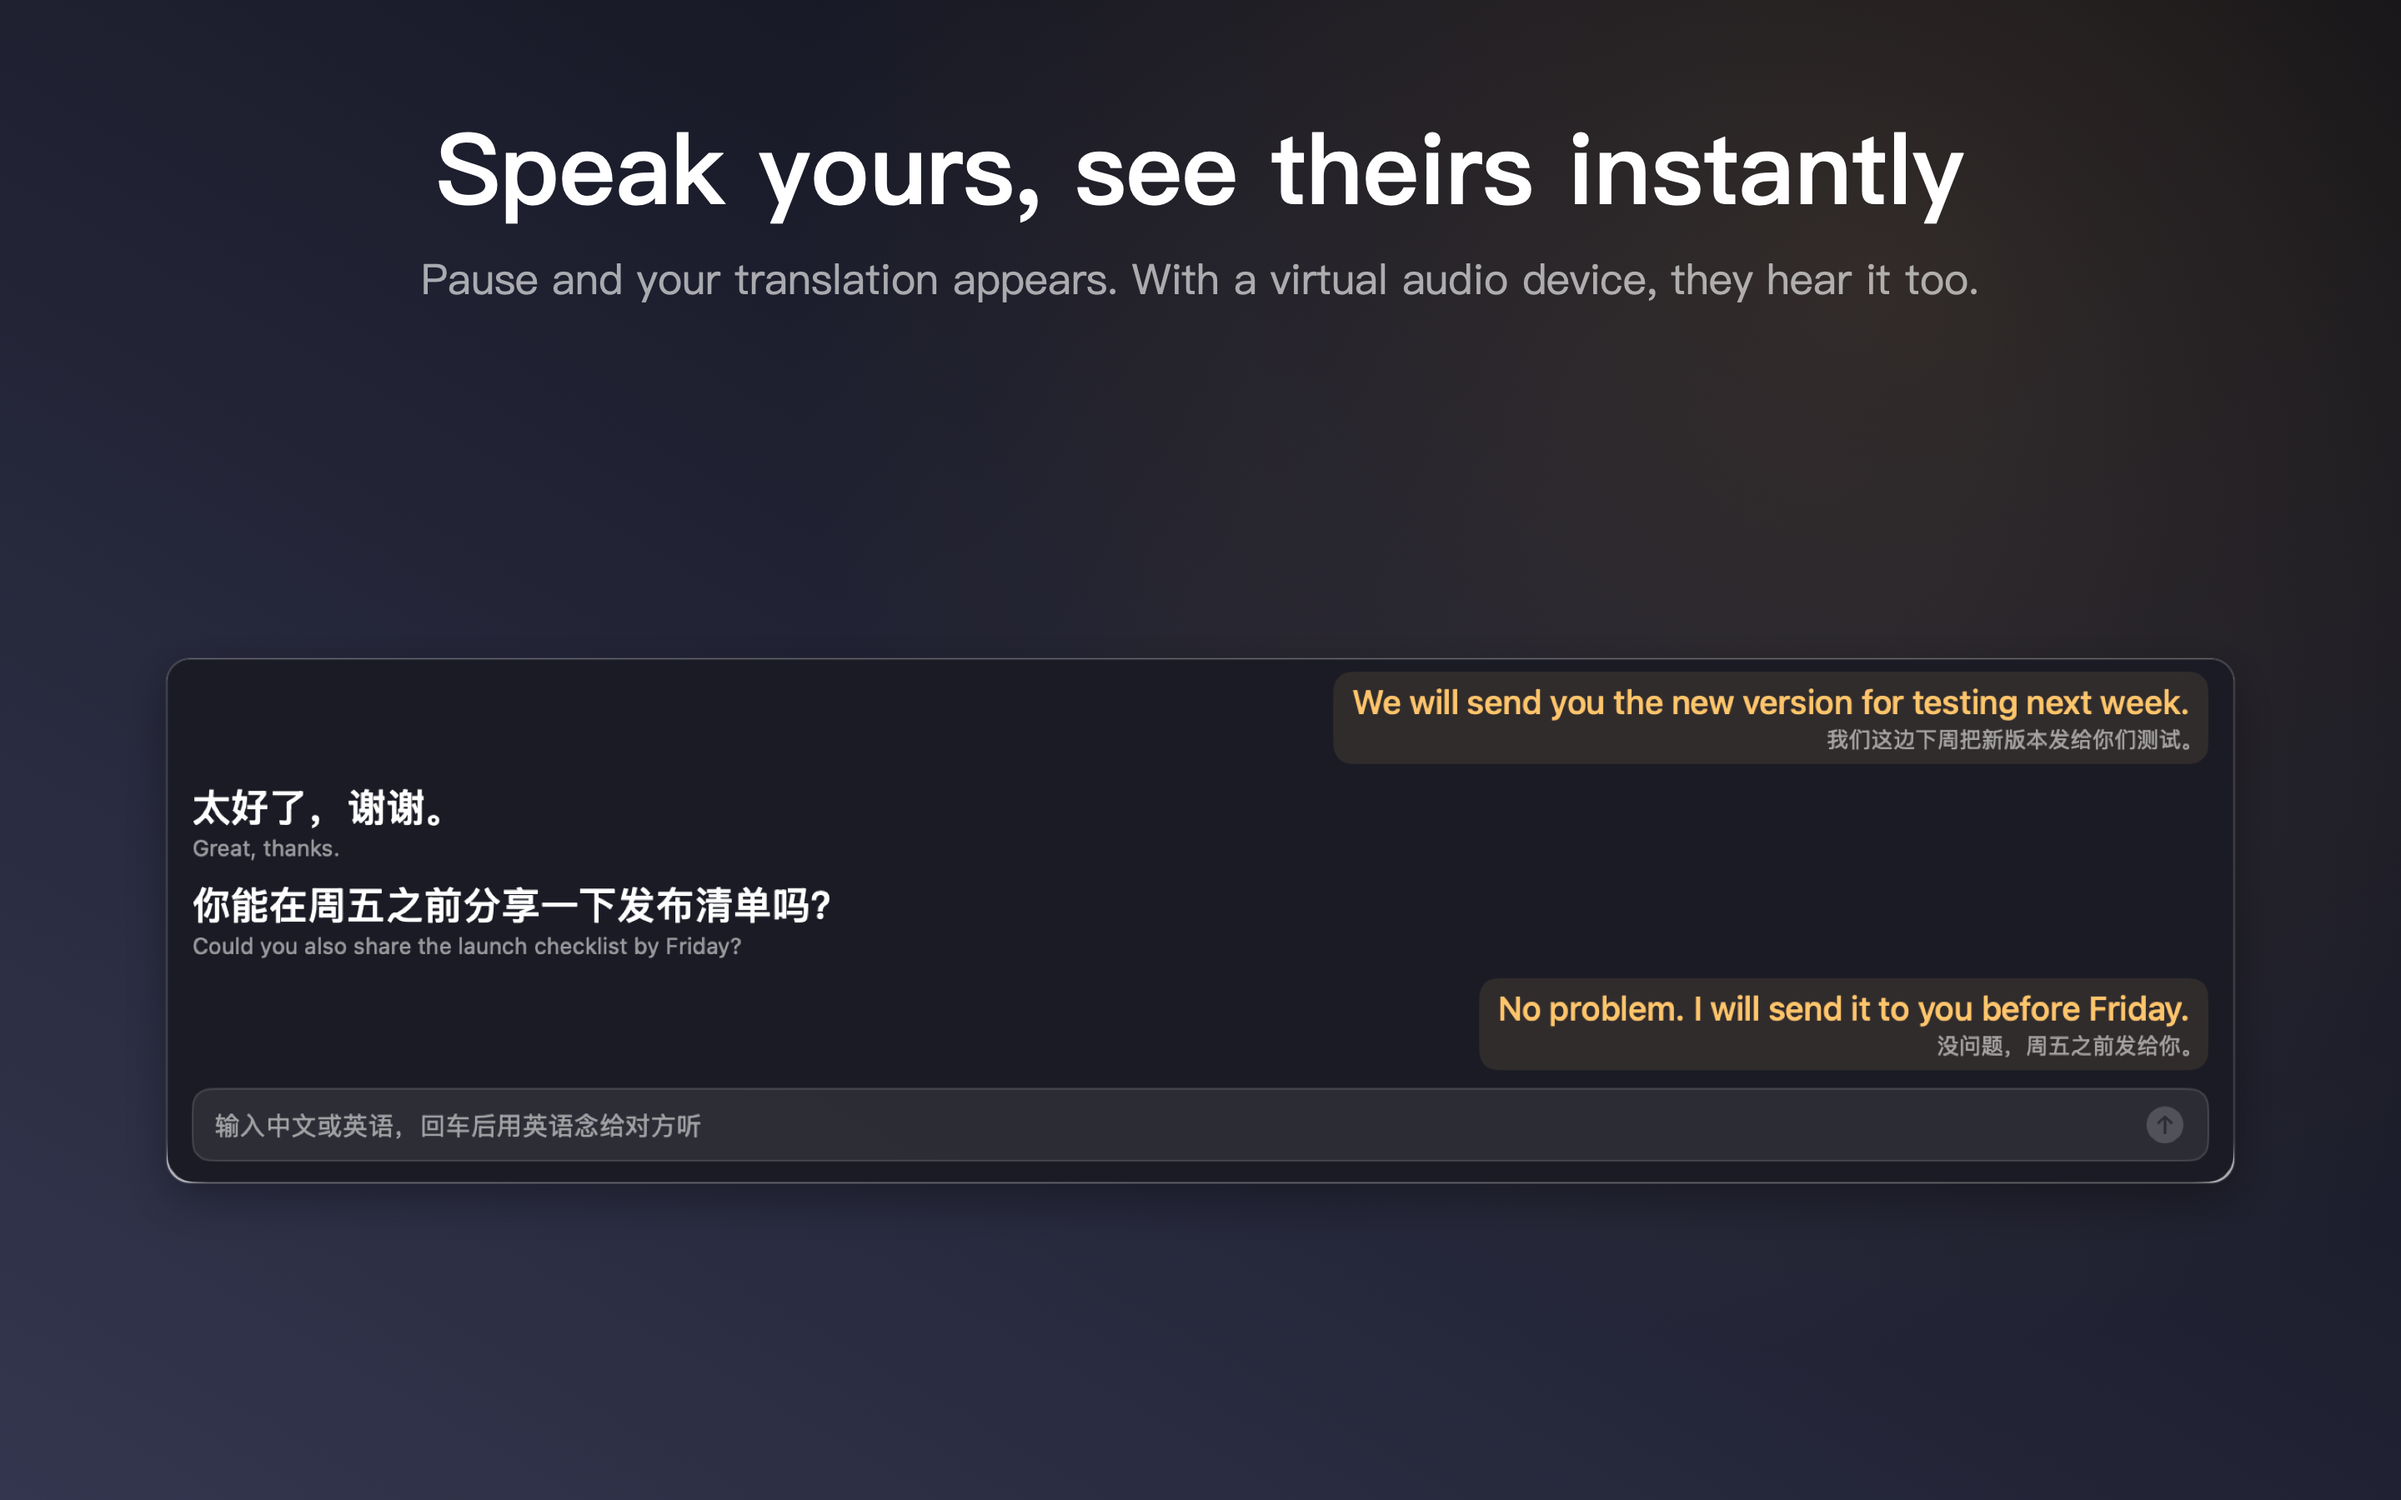
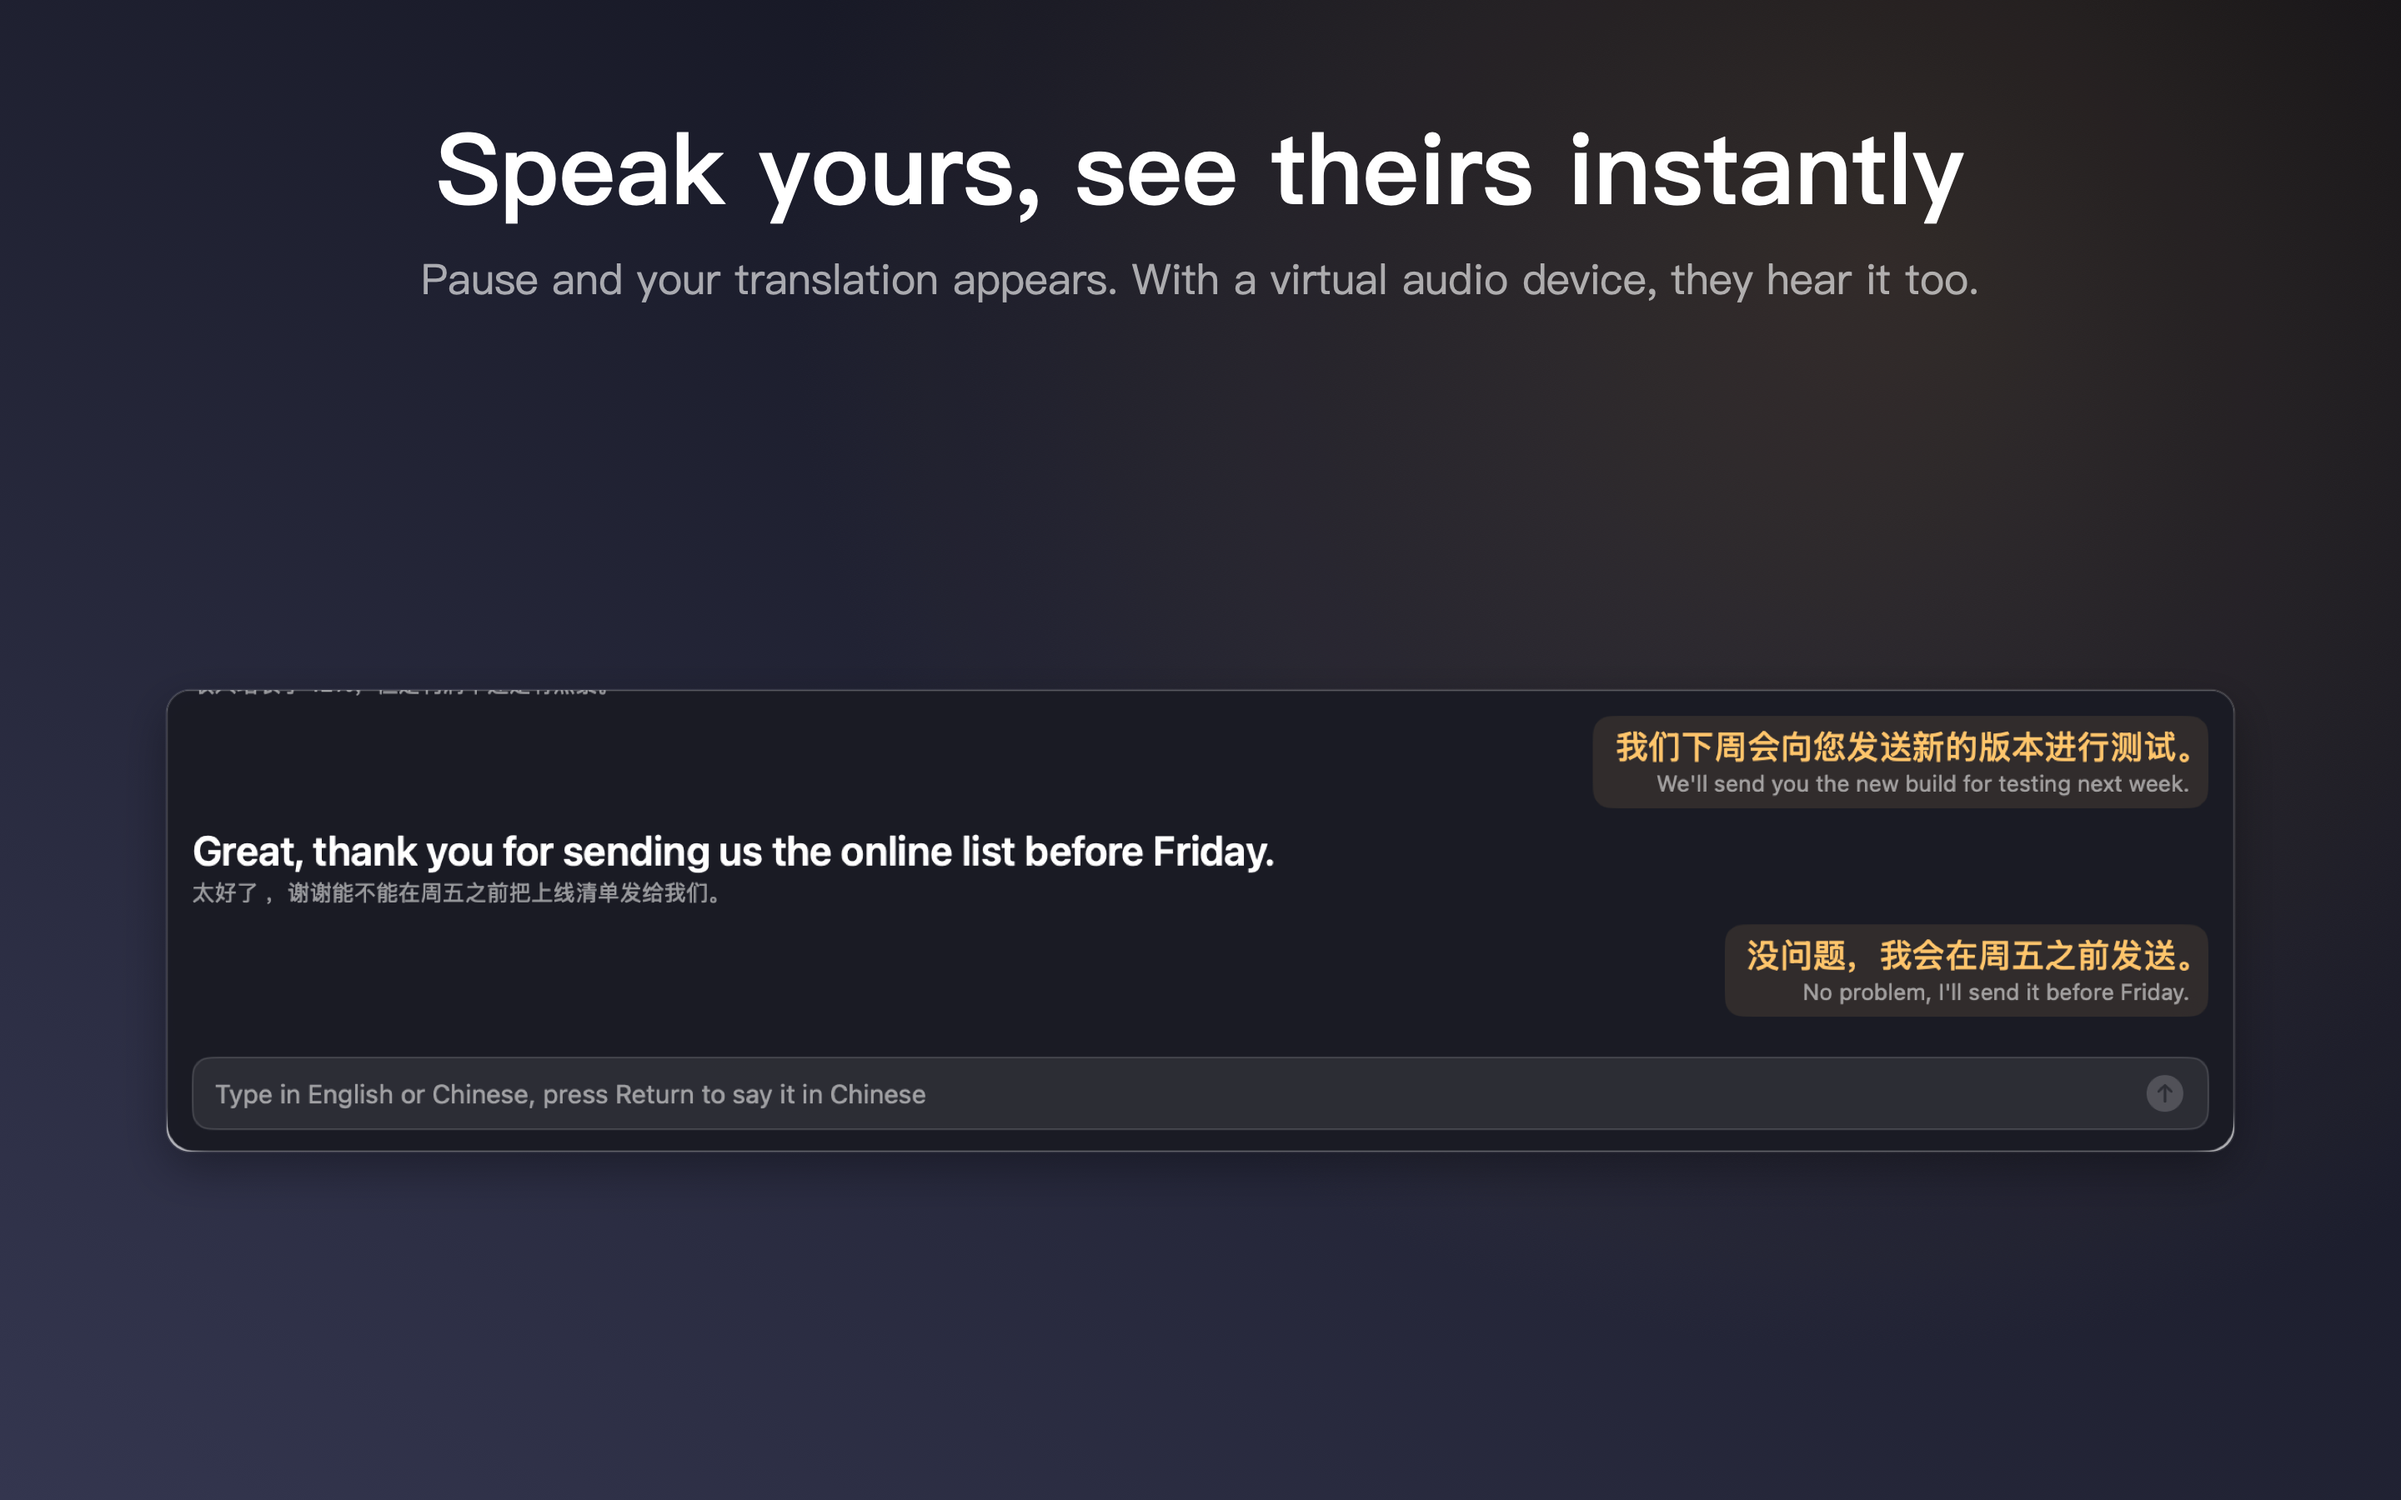
1.1: real shutdown timeouts, session flags don't persist, settings tabs fit in English; site/shots for English UI
- Engine.step(): race two unstructured tasks instead of a task group (which waits for every
  child, so a hung SpeechAnalyzer.finish made the 2 s timeout meaningless and the 6 s
  watchdog did the work). Reproduced with the real microphone: now skipped after 2 s.
- --subtitles-only no longer rewrites the saved 'Translate me' preference
- Settings: 720 wide, 'Audio' tab label, so English tabs don't collapse into a chevron
- English site: English-UI hero and screenshots, bilingual-interface note; zh site notes it too

diff --git a/site/public/en/support.html b/site/public/en/support.html
@@ -21,19 +21,19 @@
   <h1>Support</h1>
   <div class="meta">Getting started and frequently asked questions</div>
 
-  <p>The app's interface is currently in Simplified Chinese. The menu bar items you need are: <strong>开始同传</strong> (Start), <strong>结束同传</strong> (Stop), <strong>显示字幕窗</strong> (Show subtitles), <strong>设置</strong> (Settings), <strong>会议记录</strong> (Meeting records).</p>
+  <p>The interface follows your Mac's language (English or Chinese); change it in Settings → General → Interface language.</p>
 
   <h2>Getting started</h2>
   <ol>
     <li>Install from <a href="https://github.com/zhitongblog/hushpiece/releases/latest">GitHub Releases</a> or with <code>brew install --cask zhitongblog/tap/hushpiece</code>.</li>
-    <li>Open Hushpiece and follow the setup guide: choose what you speak (我说) and what they speak (对方说), download the models, and allow Microphone and Screen &amp; System Audio Recording.</li>
-    <li>In a meeting, click the waveform icon in the menu bar → <strong>开始同传</strong> (Start). The subtitle panel appears at the bottom of the screen; drag or resize it as you like.</li>
-    <li>When you are done, click <strong>结束</strong> (End) at the panel's top right. The transcript is saved automatically (menu bar → 会议记录).</li>
+    <li>Open Hushpiece and follow the setup guide: choose what you speak and what they speak, download the models, and allow Microphone and Screen &amp; System Audio Recording.</li>
+    <li>In a meeting, click the waveform icon in the menu bar → <strong>Start Interpreting</strong>. The subtitle panel appears at the bottom of the screen; drag or resize it as you like.</li>
+    <li>When you are done, click <strong>End</strong> at the panel's top right. The transcript is saved automatically (menu bar → Meeting Transcripts).</li>
   </ol>
 
   <h2>Frequently asked questions</h2>
   <details><summary>No subtitles appear</summary>
-    <p>Make sure Hushpiece is enabled in System Settings → Privacy &amp; Security → Screen &amp; System Audio Recording, then quit and reopen the app. When the top-left of the panel reads 正在听 (listening) and the dot turns green as they speak, audio is coming through.</p></details>
+    <p>Make sure Hushpiece is enabled in System Settings → Privacy &amp; Security → Screen &amp; System Audio Recording, then quit and reopen the app. When the top-left of the panel reads "Listening" and the dot turns green as they speak, audio is coming through.</p></details>
   <details><summary>A purple recording icon appears in the menu bar — is that normal?</summary>
     <p>Yes. macOS shows it whenever an app reads system audio. Don't click its Stop; if you do, Hushpiece reconnects within about a second.</p></details>
   <details><summary>How can the other side hear my translation?</summary>
@@ -47,7 +47,7 @@
   <details><summary>Does it go online? Where does the meeting go?</summary>
     <p>It doesn't go online and uploads nothing. See the <a href="/en/privacy">privacy policy</a>.</p></details>
   <details><summary>The subtitle panel disappeared</summary>
-    <p>Click the waveform icon in the menu bar → 显示字幕窗 (Show subtitles). The "—" button on the panel only hides it; interpreting continues.</p></details>
+    <p>Click the waveform icon in the menu bar → Show Subtitles. The "—" button on the panel only hides it; interpreting continues.</p></details>
 
   <div class="contact">
     <strong>Contact</strong>

diff --git a/site/public/en/index.html b/site/public/en/index.html
@@ -29,8 +29,8 @@
     <p class="lead">They speak English, Japanese, French… you read your own language, live. You speak yours, and the translation appears the moment you pause. Recognition, translation and speech all run on your Mac — the meeting never leaves it.</p>
     <a class="cta" id="cta" href="https://github.com/zhitongblog/hushpiece/releases/latest">Free download · macOS</a>
     <div class="req">macOS 26 · Apple silicon · notarized by Apple · <a href="https://github.com/zhitongblog/hushpiece">open source (MIT)</a> · listed on <a href="https://tobefree.app/en/tools/hushpiece/">To Be Free</a></div>
-    <div class="req">The app's interface is currently in Simplified Chinese; subtitles and translation work in all nine languages.</div>
-    <img class="shot" src="/img/hero.jpg" alt="Hushpiece subtitle panel: the other side's English shown live in Chinese, your Chinese shown as an English translation" width="1400" height="482">
+    <div class="req">Interface in English and Chinese, following your Mac's language.</div>
+    <img class="shot" src="/img/en/hero.jpg" alt="Hushpiece subtitle panel: the other side's Chinese shown live in English, your English shown as a Chinese translation" width="1400" height="448">
   </div>
 
   <section id="features">
@@ -76,7 +76,7 @@
       <ol class="steps">
         <li><b>Pick languages, download models</b>Choose what you speak and what they speak; macOS downloads the matching on-device models.</li>
         <li><b>Grant access</b>Microphone (to hear you) and Screen &amp; System Audio Recording (only to hear the other side of the meeting — the screen is never read, nothing is recorded).</li>
-        <li><b>Meet</b>Click the waveform icon in the menu bar → Start. The subtitle panel floats above your meeting and saves a transcript when you finish.</li>
+        <li><b>Meet</b>Click the waveform icon in the menu bar → Start Interpreting. The subtitle panel floats above your meeting and saves a transcript when you finish.</li>
       </ol>
     </div>
   </section>

diff --git a/Sources/Hushpiece/Engine.swift b/Sources/Hushpiece/Engine.swift
@@ -267,12 +267,13 @@ final class Engine {
 
     private func step(_ name: String, _ seconds: Double, _ body: @escaping @Sendable () async -> Void) async {
         let t0 = Date()
-        let finished = await withTaskGroup(of: Bool.self) { g in
-            g.addTask { await body(); return true }
-            g.addTask { try? await Task.sleep(for: .seconds(seconds)); return false }
-            let first = await g.next() ?? false
-            g.cancelAll()
-            return first
+        // Not a task group: withTaskGroup waits for *every* child before returning, so a body
+        // stuck in a framework call (it happens: SpeechAnalyzer finish on a silent stream) would
+        // make the timeout meaningless. Race two unstructured tasks and take whichever lands first.
+        let finished: Bool = await withCheckedContinuation { cont in
+            let gate = OnceGate()
+            Task { await body(); if gate.claim() { cont.resume(returning: true) } }
+            Task { try? await Task.sleep(for: .seconds(seconds)); if gate.claim() { cont.resume(returning: false) } }
         }
         let ms = Int(Date().timeIntervalSince(t0) * 1000)
         Log.info(finished ? "shutdown: \(name) ok (\(ms) ms)" : "shutdown: \(name) timed out after \(ms) ms, skipping")
@@ -406,3 +407,14 @@ final class Engine {
     }
 }
 
+/// First caller wins; used to resume a continuation exactly once from racing tasks.
+final class OnceGate: @unchecked Sendable {
+    private let lock = NSLock()
+    private var done = false
+    func claim() -> Bool {
+        lock.lock(); defer { lock.unlock() }
+        if done { return false }
+        done = true
+        return true
+    }
+}

diff --git a/Sources/Hushpiece/Overlay.swift b/Sources/Hushpiece/Overlay.swift
@@ -45,7 +45,10 @@ final class OverlayModel: ObservableObject {
     @Published var notHeard = false            // a translation wasn't spoken because nobody listens
     @Published var echoGuard = true
 
-    @Published var translateMe = Prefs.shared.translateMe { didSet { Prefs.shared.translateMe = translateMe } }
+    /// What the user toggles is remembered; what a session sets from CLI flags (--subtitles-only)
+    /// is not — `persist` is off while a session applies its config.
+    @Published var translateMe = Prefs.shared.translateMe { didSet { if persist { Prefs.shared.translateMe = translateMe } } }
+    private var persist = true
     @Published var fontSize = CGFloat(Prefs.shared.fontSize) { didSet { Prefs.shared.fontSize = Double(fontSize) } }
     @Published var compact = Prefs.shared.compact { didSet { Prefs.shared.compact = compact; onCompactChanged?(compact) } }
     @Published var opacity = Prefs.shared.opacity { didSet { Prefs.shared.opacity = opacity } }
@@ -67,7 +70,9 @@ final class OverlayModel: ObservableObject {
             self.captureConnected = true; self.speaking = false; self.remoteActive = false
             self.remoteName = remote.plain; self.myName = mine.plain
             self.remoteShort = remote.short; self.myShort = mine.short
+            self.persist = false
             self.translateMe = translateMe
+            self.persist = true
         }
         if Thread.isMainThread { apply() } else { DispatchQueue.main.sync(execute: apply) }
     }

diff --git a/site/public/index.html b/site/public/index.html
@@ -28,7 +28,7 @@
     <h1>外语会议，<em>耳边</em>的同传</h1>
     <p class="lead">对方说英语、日语、法语……你看到的是中文字幕；你说中文，译文立刻出来。识别、翻译、发音全部在你的 Mac 上完成，会议内容不出这台电脑。</p>
     <a class="cta" id="cta" href="https://github.com/zhitongblog/hushpiece/releases/latest">免费下载 · macOS</a>
-    <div class="req">需要 macOS 26 · Apple 芯片 · 已通过苹果公证 · <a href="https://github.com/zhitongblog/hushpiece">开源（MIT）</a> · 收录于 <a href="https://tobefree.app/zh/tools/hushpiece/">To Be Free</a></div>
+    <div class="req">需要 macOS 26 · Apple 芯片 · 中英文界面 · 已通过苹果公证 · <a href="https://github.com/zhitongblog/hushpiece">开源（MIT）</a> · 收录于 <a href="https://tobefree.app/zh/tools/hushpiece/">To Be Free</a></div>
     <img class="shot" src="/img/hero.jpg" alt="耳语同传字幕窗：对方的英语实时显示为中文，你的中文显示为英文译文" width="1400" height="482">
   </div>
 

diff --git a/Sources/Hushpiece/SettingsView.swift b/Sources/Hushpiece/SettingsView.swift
@@ -60,13 +60,13 @@ struct SettingsView: View {
     var body: some View {
         TabView {
             general.tabItem { Label(L("通用", "General"), systemImage: "gearshape") }
-            audio.tabItem { Label(L("语言与声音", "Languages & Audio"), systemImage: "waveform") }
+            audio.tabItem { Label(L("语言与声音", "Audio"), systemImage: "waveform") }
             subtitles.tabItem { Label(L("字幕", "Subtitles"), systemImage: "captions.bubble") }
             records.tabItem { Label(L("会议记录", "Transcripts"), systemImage: "doc.text") }
             advanced.tabItem { Label(L("高级", "Advanced"), systemImage: "terminal") }
         }
         .padding(20)
-        .frame(width: 640, height: 540)
+        .frame(width: 720, height: 540)
     }
 
     private var general: some View {

diff --git a/Sources/Hushpiece/App.swift b/Sources/Hushpiece/App.swift
@@ -336,7 +336,7 @@ import SwiftUI
 
     func showSettingsWindow() {
         if settingsWindow == nil {
-            let w = NSWindow(contentRect: NSRect(x: 0, y: 0, width: 640, height: 540),
+            let w = NSWindow(contentRect: NSRect(x: 0, y: 0, width: 720, height: 540),
                              styleMask: [.titled, .closable], backing: .buffered, defer: false)
             w.title = L("耳语同传 设置", "Hushpiece Settings")
             w.isReleasedWhenClosed = false
